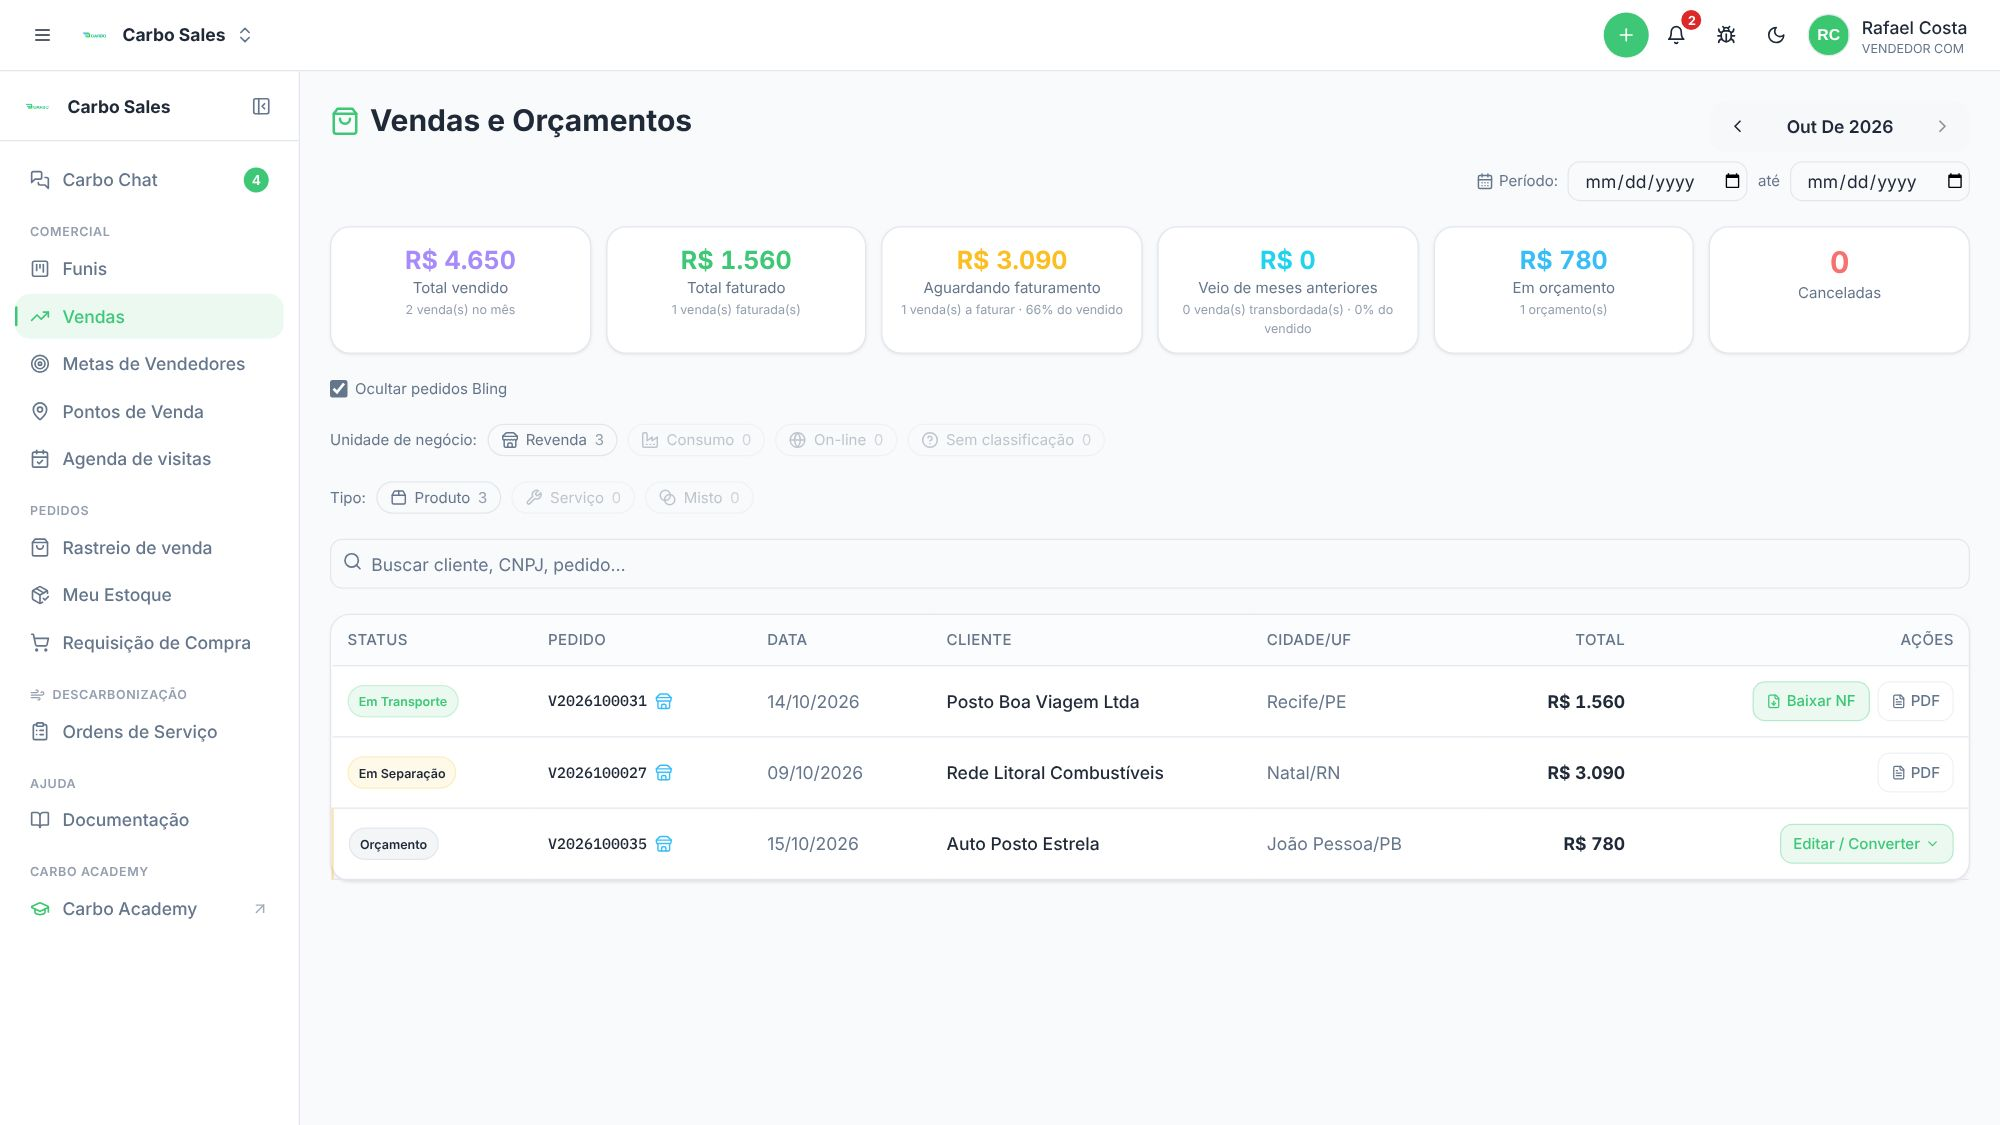
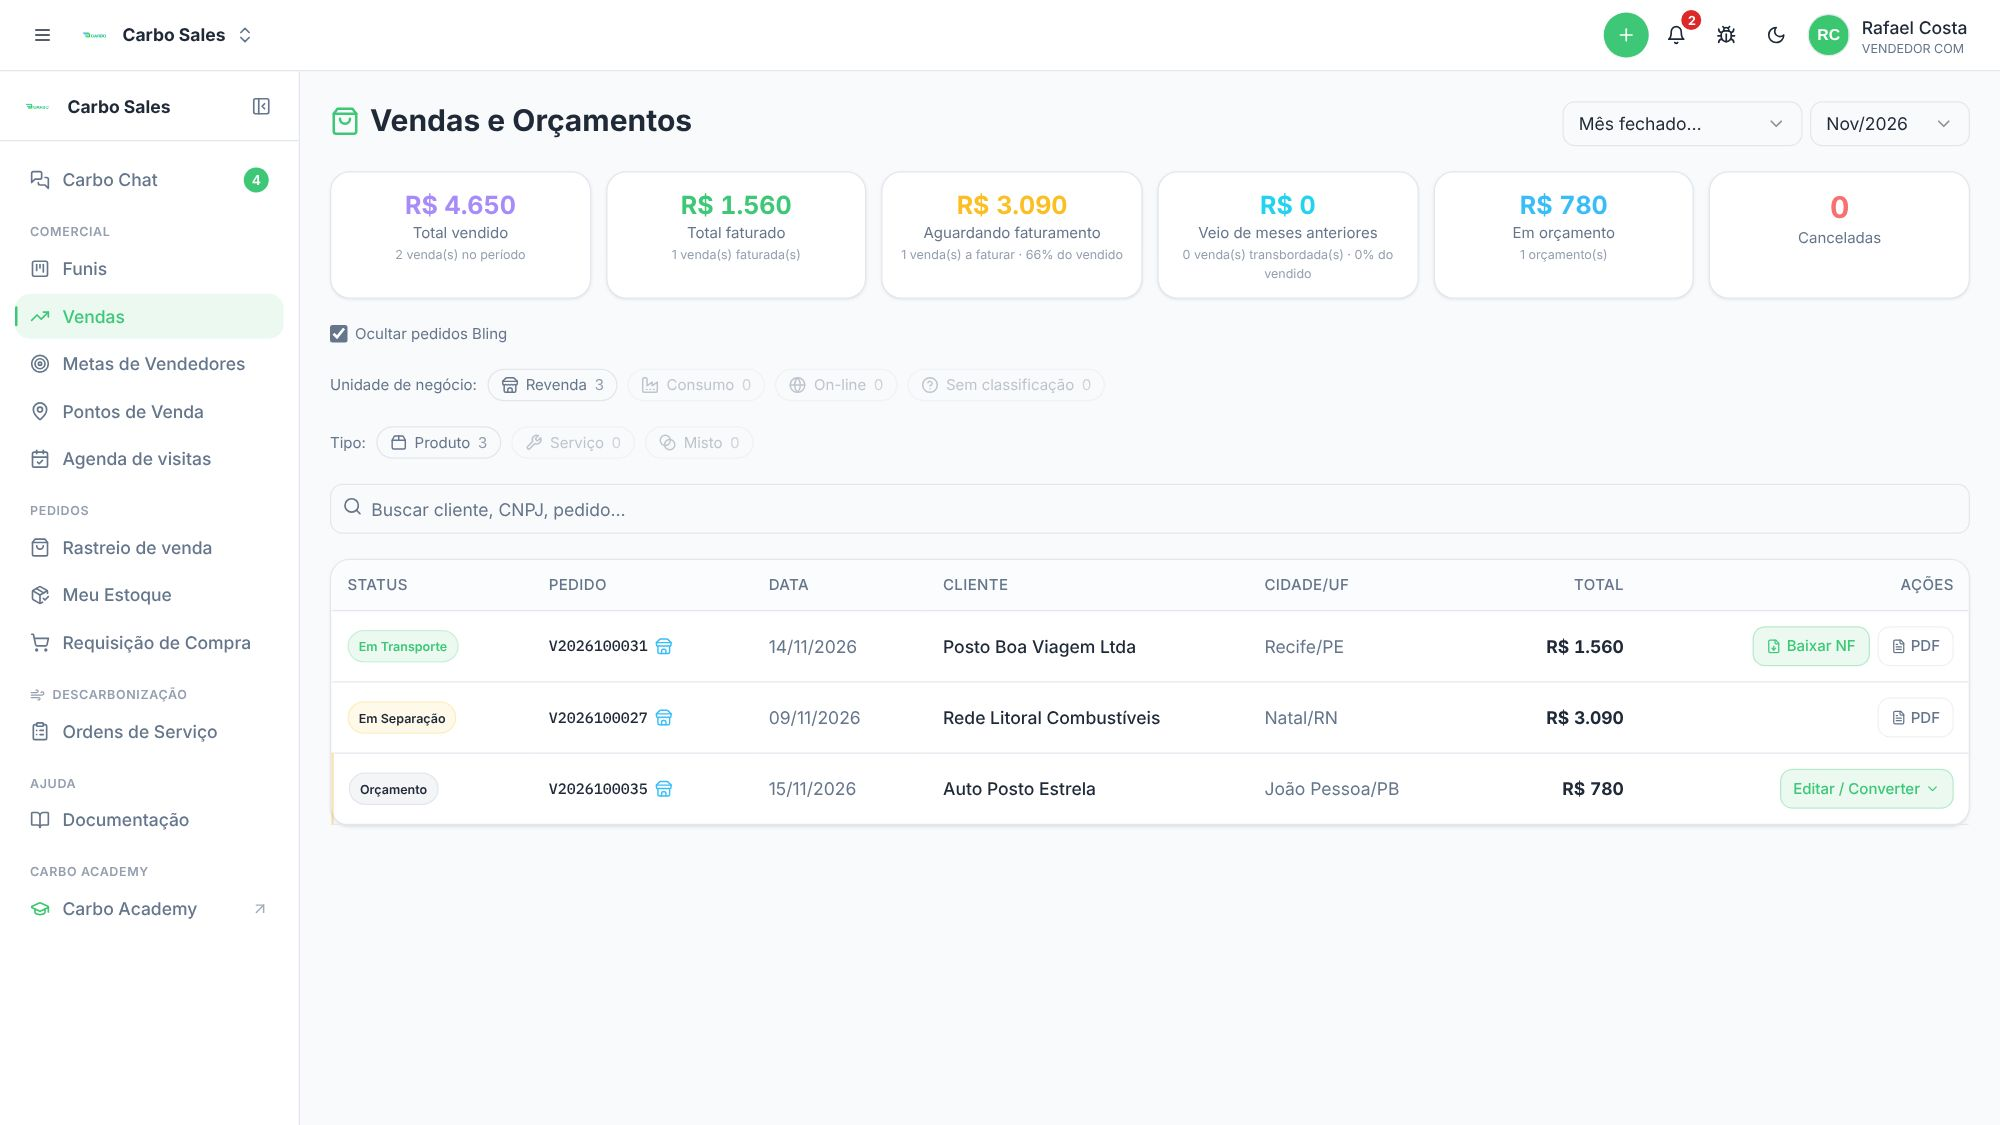
Documentação: seletor de período novo nas telas que mudaram, com prints refeitos
Anúncios da Meta, Mapa da Conquista, painéis de Lojas e Licenciados, Esteira
(admin, atendimento, mkt), /vendas do Sales e do Pré-Vendas, Resultados,
Suprimentos (Ops), Acompanhamento e Ranking do TI.

Claude-Session: https://claude.ai/code/session_014dECjKfnWPqtYYc6bX6aZY

diff --git a/apps/admin/src/docs/marcadores.ts b/apps/admin/src/docs/marcadores.ts
@@ -4,21 +4,21 @@ import type { Caixa } from "./tipos";
 // Não edite à mão: refaça o print e gere de novo. Caixas em % da imagem.
 export const MARCADORES: Record<string, Record<number, Caixa>> = {
   "anuncios": {
-    1: { x: 41.58, y: 1.75, w: 15.47, h: 1.53 },
-    2: { x: 57.7, y: 1.75, w: 13.84, h: 1.53 },
-    3: { x: 72.2, y: 1.75, w: 9.08, h: 1.53 },
-    4: { x: 81.93, y: 1.75, w: 14.98, h: 1.53 },
-    5: { x: 3.09, y: 4.2, w: 93.81, h: 6.41 },
-    6: { x: 34.69, y: 4.2, w: 14.82, h: 6.41 },
-    7: { x: 3.09, y: 11.52, w: 93.81, h: 7.43 },
-    8: { x: 41.42, y: 13.7, w: 17.17, h: 3.23 },
-    9: { x: 3.09, y: 19.87, w: 93.81, h: 14.42 },
-    10: { x: 3.09, y: 35.2, w: 93.81, h: 12.13 },
-    11: { x: 3.09, y: 48.25, w: 46.42, h: 15.41 },
-    12: { x: 50.49, y: 48.25, w: 46.42, h: 15.41 },
-    13: { x: 3.09, y: 64.58, w: 93.81, h: 19.09 },
-    14: { x: 3.09, y: 84.59, w: 93.81, h: 11.44 },
-    15: { x: 1.14, y: 0.53, w: 97.72, h: 98.93 },
+    1: { x: 39.79, y: 1.77, w: 15.47, h: 1.54 },
+    2: { x: 55.91, y: 1.84, w: 15.64, h: 1.38 },
+    3: { x: 72.2, y: 1.77, w: 9.08, h: 1.54 },
+    4: { x: 81.93, y: 1.77, w: 14.98, h: 1.54 },
+    5: { x: 3.09, y: 4.22, w: 93.81, h: 5.83 },
+    6: { x: 34.69, y: 4.22, w: 14.82, h: 5.83 },
+    7: { x: 3.09, y: 10.98, w: 93.81, h: 7.48 },
+    8: { x: 41.42, y: 13.17, w: 17.17, h: 3.25 },
+    9: { x: 3.09, y: 19.37, w: 93.81, h: 14.51 },
+    10: { x: 3.09, y: 34.8, w: 93.81, h: 12.21 },
+    11: { x: 3.09, y: 47.93, w: 46.42, h: 15.51 },
+    12: { x: 50.49, y: 47.93, w: 46.42, h: 15.51 },
+    13: { x: 3.09, y: 64.36, w: 93.81, h: 19.21 },
+    14: { x: 3.09, y: 84.49, w: 93.81, h: 11.52 },
+    15: { x: 1.14, y: 0.54, w: 97.72, h: 98.93 },
   },
   "anuncios-campanhas": {
     1: { x: 2.29, y: 22.76, w: 23.06, h: 4.07 },
@@ -153,9 +153,9 @@ export const MARCADORES: Record<string, Record<number, Caixa>> = {
     3: { x: 51.7, y: 8.5, w: 47.05, h: 3.2 },
     4: { x: 13.75, y: 18.9, w: 16.67, h: 3.6 },
     5: { x: 30.83, y: 18.9, w: 9.17, h: 3.6 },
-    6: { x: 40.42, y: 18.9, w: 7.5, h: 3.6 },
-    7: { x: 48.33, y: 18.9, w: 10, h: 3.6 },
-    8: { x: 58.75, y: 18.9, w: 14.73, h: 3.6 },
+    6: { x: 40.42, y: 18.9, w: 10, h: 3.6 },
+    7: { x: 50.83, y: 18.9, w: 10, h: 3.6 },
+    8: { x: 61.25, y: 18.9, w: 14.73, h: 3.6 },
     9: { x: 13.75, y: 24.1, w: 13.65, h: 30.5 },
     10: { x: 28.02, y: 24.1, w: 13.65, h: 28.15 },
     11: { x: 42.29, y: 24.1, w: 13.65, h: 34.75 },
@@ -275,12 +275,12 @@ export const MARCADORES: Record<string, Record<number, Caixa>> = {
     5: { x: 83, y: 14.33, w: 15.33, h: 10.94 },
     6: { x: 18.33, y: 27.06, w: 80, h: 4 },
     7: { x: 55.9, y: 27.06, w: 8.03, h: 4 },
-    8: { x: 64.49, y: 27.28, w: 12.22, h: 3.56 },
+    8: { x: 64.49, y: 27.06, w: 13.33, h: 4 },
     9: { x: 79.88, y: 27.17, w: 18.45, h: 3.78 },
     10: { x: 18.4, y: 32.94, w: 59.58, h: 50.94 },
     11: { x: 19.24, y: 76.56, w: 11.73, h: 6 },
-    12: { x: 79.17, y: 32.83, w: 19.17, h: 21.78 },
-    13: { x: 79.17, y: 56.39, w: 19.17, h: 40.67 },
+    12: { x: 79.17, y: 32.83, w: 19.17, h: 9.33 },
+    13: { x: 79.17, y: 43.94, w: 19.17, h: 40.67 },
   },
   "mapa-nao-localizadas": {
     1: { x: 2.63, y: 23.48, w: 94.75, h: 15.15 },
@@ -372,13 +372,13 @@ export const MARCADORES: Record<string, Record<number, Caixa>> = {
     3: { x: 3.86, y: 47.41, w: 92.2, h: 19.59 },
   },
   "painel-licenciados": {
-    1: { x: 72.65, y: 6.13, w: 24.02, h: 2.27 },
+    1: { x: 83.33, y: 6.07, w: 13.33, h: 2.4 },
     2: { x: 20, y: 17.27, w: 76.67, h: 23.87 },
     3: { x: 39.38, y: 10.2, w: 18.54, h: 5.47 },
     4: { x: 58.75, y: 10.2, w: 18.54, h: 5.47 },
     5: { x: 78.13, y: 10.2, w: 18.54, h: 5.47 },
     6: { x: 76.83, y: 18.6, w: 10.7, h: 2.13 },
-    7: { x: 72.65, y: 6.13, w: 24.02, h: 2.27 },
+    7: { x: 88.09, y: 18.6, w: 7.19, h: 2.13 },
     8: { x: 20, y: 42.73, w: 37.78, h: 21.53 },
     9: { x: 58.89, y: 42.73, w: 37.78, h: 21.53 },
     10: { x: 20, y: 65.87, w: 76.67, h: 33.47 },
@@ -389,7 +389,7 @@ export const MARCADORES: Record<string, Record<number, Caixa>> = {
     3: { x: 90.13, y: 91.96, w: 6.78, h: 4.23 },
   },
   "painel-lojas": {
-    1: { x: 72.65, y: 8.36, w: 24.02, h: 3.09 },
+    1: { x: 83.33, y: 8.27, w: 13.33, h: 3.27 },
     2: { x: 20, y: 13.91, w: 18.54, h: 7.45 },
     3: { x: 39.38, y: 13.91, w: 18.54, h: 7.45 },
     4: { x: 58.75, y: 13.91, w: 18.54, h: 7.45 },

diff --git a/apps/prevendas/src/docs/conteudo.ts b/apps/prevendas/src/docs/conteudo.ts
@@ -386,7 +386,7 @@ export const SECOES: Secao[] = [
       {
         print: { chave: "vendas", legenda: "Vendas e Orçamentos, visão do colaborador." },
         itens: [
-          { n: 1, titulo: "Período", texto: "Hoje, Ontem, Últimos 7 ou 30 dias, Este mês (até hoje), Mês fechado… (escolhe o mês ao lado) ou Por período… (abre as duas datas). Abre no mês corrente inteiro. A data que vale é a do faturamento." },
+          { n: 1, titulo: "Período", texto: "Hoje, Ontem, Últimos 7 ou 30 dias, Este mês (até hoje), Mês fechado… (escolhe o mês ao lado) ou Por período… (abre as duas datas). Abre no mês corrente inteiro (“Mês fechado…” com o mês atual). A data que vale é a do faturamento." },
           { n: 2, titulo: "Números do período", texto: "Total vendido, faturado, aguardando faturamento, vindo de meses anteriores, em orçamento e canceladas. Clique num número para filtrar a tabela por ele; clique de novo para tirar o filtro." },
           { n: 3, titulo: "Buscar", texto: "Procura pelo nome do cliente, cidade, CNPJ/CPF, IE, telefone, CEP, e-mail ou número do pedido, em todo o histórico (ignora o período). Número com 3 dígitos ou mais casa em qualquer parte do documento, telefone, CEP ou IE." },
           { n: 4, titulo: "Status", texto: "Orçamento, Cancelado ou a etapa do pedido (Nova Venda, Em Separação, Em Transporte, Entregue…)." },
@@ -442,7 +442,7 @@ export const SECOES: Secao[] = [
       {
         print: { chave: "resultados", legenda: "Resultados do período, visão do colaborador." },
         itens: [
-          { n: 1, titulo: "Período", texto: "De quando são os repasses: Hoje, Ontem, Últimos 7 ou 30 dias, Este mês (até hoje), Mês fechado… (escolhe o mês ao lado) ou Por período… (abre as duas datas). Abre no mês corrente inteiro." },
+          { n: 1, titulo: "Período", texto: "De quando são os repasses: Hoje, Ontem, Últimos 7 ou 30 dias, Este mês (até hoje), Mês fechado… (escolhe o mês ao lado) ou Por período… (abre as duas datas). Abre no mês corrente inteiro (“Mês fechado…” com o mês atual)." },
           { n: 2, titulo: "Números", texto: "Repassados, fechados, conversão, receita gerada pelos repasses e o tempo médio do repasse até fechar." },
           { n: 3, titulo: "Situação dos repassados", texto: "Quantos fecharam, estão em negociação (e em que etapa), estão na fila sem closer ou foram perdidos." },
           { n: 4, titulo: "Por closer", texto: "Quanto cada closer recebeu, fechou e vendeu." },

diff --git a/apps/prevendas/src/docs/marcadores.ts b/apps/prevendas/src/docs/marcadores.ts
@@ -125,7 +125,7 @@ export const MARCADORES: Record<string, Record<number, Caixa>> = {
     3: { x: 60.62, y: 73.67, w: 18.75, h: 20.44 },
   },
   "resultados": {
-    1: { x: 82.78, y: 6.95, w: 15.56, h: 3.22 },
+    1: { x: 75.69, y: 7.03, w: 22.64, h: 3.05 },
     2: { x: 18.33, y: 12.29, w: 80, h: 14.92 },
     3: { x: 18.33, y: 29.24, w: 80, h: 25.97 },
     4: { x: 18.33, y: 56.57, w: 80, h: 14.66 },
@@ -133,20 +133,19 @@ export const MARCADORES: Record<string, Record<number, Caixa>> = {
     6: { x: 18.33, y: 86.4, w: 80, h: 13.6 },
   },
   "resultados-gestor": {
-    1: { x: 68.33, y: 5.19, w: 13.89, h: 2.25 },
+    1: { x: 61.25, y: 5.19, w: 13.89, h: 2.25 },
     2: { x: 18.33, y: 55.91, w: 80, h: 11.31 },
-    3: { x: 50.74, y: 81.53, w: 11.56, h: 2.53 },
+    3: { x: 50.12, y: 81.53, w: 11.71, h: 2.53 },
   },
   "vendas": {
-    1: { x: 85.5, y: 9, w: 13, h: 4.44 },
-    2: { x: 73.82, y: 14.33, w: 24.68, h: 3.56 },
-    3: { x: 16.5, y: 20.11, w: 82, h: 11.33 },
-    4: { x: 16.5, y: 35.89, w: 82, h: 4.44 },
-    5: { x: 16.63, y: 42.67, w: 8.34, h: 4.5 },
-    6: { x: 63.13, y: 42.67, w: 7.96, h: 4.5 },
-    7: { x: 88.97, y: 61.22, w: 8.71, h: 3.56 },
-    8: { x: 87.65, y: 48.56, w: 5.83, h: 3.56 },
-    9: { x: 16.63, y: 53.5, w: 81.81, h: 6.33 },
+    1: { x: 78.13, y: 9, w: 20.38, h: 4 },
+    2: { x: 16.5, y: 15.22, w: 82, h: 11.33 },
+    3: { x: 16.5, y: 31, w: 82, h: 4.44 },
+    4: { x: 16.63, y: 37.78, w: 8.36, h: 4.5 },
+    5: { x: 63.03, y: 37.78, w: 7.99, h: 4.5 },
+    6: { x: 88.97, y: 56.33, w: 8.71, h: 3.56 },
+    7: { x: 87.65, y: 43.67, w: 5.83, h: 3.56 },
+    8: { x: 16.63, y: 48.61, w: 81.81, h: 6.33 },
   },
   "vendas-detalhe": {
     1: { x: 2.84, y: 19.32, w: 94.32, h: 11.92 },
@@ -155,8 +154,8 @@ export const MARCADORES: Record<string, Record<number, Caixa>> = {
     4: { x: 2.84, y: 53.31, w: 94.32, h: 3.53 },
   },
   "vendas-gestor": {
-    1: { x: 84.75, y: 32.3, w: 13.75, h: 4 },
-    2: { x: 17.41, y: 39.5, w: 1, h: 1.6 },
+    1: { x: 84.75, y: 27.9, w: 13.75, h: 4 },
+    2: { x: 17.41, y: 35.1, w: 1, h: 1.6 },
     3: { x: 33.4, y: 91.8, w: 33.19, h: 5.8 },
   },
   "vendas-gestor-detalhe": {

diff --git a/apps/crm/src/docs/marcadores.ts b/apps/crm/src/docs/marcadores.ts
@@ -309,15 +309,14 @@ export const MARCADORES: Record<string, Record<number, Caixa>> = {
     3: { x: 47.31, y: 40.06, w: 13.25, h: 12.61 },
   },
   "vendas": {
-    1: { x: 85.5, y: 9, w: 13, h: 4.44 },
-    2: { x: 73.82, y: 14.33, w: 24.68, h: 3.56 },
-    3: { x: 16.5, y: 20.11, w: 82, h: 11.33 },
-    4: { x: 16.5, y: 47.89, w: 82, h: 4.44 },
-    5: { x: 16.63, y: 54.67, w: 10.03, h: 4.5 },
-    6: { x: 16.5, y: 9, w: 82, h: 69.33 },
-    7: { x: 88.97, y: 73.22, w: 8.71, h: 3.56 },
-    8: { x: 87.65, y: 60.56, w: 5.83, h: 3.56 },
-    9: { x: 16.63, y: 65.5, w: 81.81, h: 6.33 },
+    1: { x: 78.13, y: 9, w: 20.38, h: 4 },
+    2: { x: 16.5, y: 15.22, w: 82, h: 11.33 },
+    3: { x: 16.5, y: 43, w: 82, h: 4.44 },
+    4: { x: 16.63, y: 49.78, w: 10.06, h: 4.5 },
+    5: { x: 16.5, y: 9, w: 82, h: 64.44 },
+    6: { x: 88.97, y: 68.33, w: 8.71, h: 3.56 },
+    7: { x: 87.65, y: 55.67, w: 5.83, h: 3.56 },
+    8: { x: 16.63, y: 60.61, w: 81.81, h: 6.33 },
   },
   "vendas-detalhe": {
     1: { x: 2.84, y: 17.16, w: 94.32, h: 10.59 },
@@ -326,11 +325,11 @@ export const MARCADORES: Record<string, Record<number, Caixa>> = {
     4: { x: 2.84, y: 47.35, w: 94.32, h: 3.14 },
   },
   "vendas-gestor": {
-    1: { x: 84.75, y: 43.1, w: 13.75, h: 4 },
-    2: { x: 17.41, y: 50.3, w: 1, h: 1.6 },
+    1: { x: 84.75, y: 38.7, w: 13.75, h: 4 },
+    2: { x: 17.41, y: 45.9, w: 1, h: 1.6 },
     3: { x: 33.4, y: 91.8, w: 33.19, h: 5.8 },
-    4: { x: 66.4, y: 49.1, w: 7.19, h: 4.45 },
-    5: { x: 73.59, y: 49.1, w: 6.75, h: 4.45 },
+    4: { x: 66.38, y: 44.7, w: 7.2, h: 4.45 },
+    5: { x: 73.57, y: 44.7, w: 6.76, h: 4.45 },
   },
   "vendas-gestor-detalhe": {
     1: { x: 2.84, y: 91.87, w: 9.55, h: 5.66 },

diff --git a/apps/ops/src/docs/marcadores.ts b/apps/ops/src/docs/marcadores.ts
@@ -503,19 +503,19 @@ export const MARCADORES: Record<string, Record<number, Caixa>> = {
     4: { x: 89.81, y: 95.52, w: 6.88, h: 1.84 },
   },
   "sup-estoque": {
-    1: { x: 1.19, y: 9.87, w: 97.63, h: 5.08 },
-    2: { x: 86.04, y: 9.87, w: 12.77, h: 5.08 },
-    3: { x: 1.19, y: 17.77, w: 97.63, h: 3.95 },
-    4: { x: 1.19, y: 22.85, w: 97.63, h: 12.13 },
-    5: { x: 1.19, y: 37.8, w: 97.63, h: 5.64 },
-    6: { x: 1.19, y: 45.7, w: 27.12, h: 5.64 },
-    7: { x: 29.32, y: 45.7, w: 14.41, h: 5.64 },
-    8: { x: 44.75, y: 45.98, w: 12.67, h: 5.08 },
-    9: { x: 87.29, y: 45.98, w: 11.52, h: 5.08 },
-    10: { x: 1.19, y: 53.6, w: 97.63, h: 2.26 },
-    11: { x: 1.19, y: 58.67, w: 97.63, h: 5.22 },
-    12: { x: 67.17, y: 65.59, w: 31.64, h: 32.44 },
-    13: { x: 94.66, y: 68.55, w: 2.37, h: 3.95 },
+    1: { x: 1.19, y: 9.55, w: 97.63, h: 4.91 },
+    2: { x: 86.04, y: 9.55, w: 12.77, h: 4.91 },
+    3: { x: 82.54, y: 17.19, w: 16.27, h: 4.91 },
+    4: { x: 1.19, y: 23.19, w: 97.63, h: 13.92 },
+    5: { x: 1.19, y: 39.84, w: 97.63, h: 5.46 },
+    6: { x: 1.19, y: 47.48, w: 27.12, h: 5.46 },
+    7: { x: 29.32, y: 47.48, w: 14.41, h: 5.46 },
+    8: { x: 44.75, y: 47.75, w: 12.67, h: 4.91 },
+    9: { x: 87.29, y: 47.75, w: 11.52, h: 4.91 },
+    10: { x: 1.19, y: 55.12, w: 97.63, h: 2.18 },
+    11: { x: 1.19, y: 60.03, w: 97.63, h: 5.05 },
+    12: { x: 67.17, y: 66.71, w: 31.64, h: 31.38 },
+    13: { x: 94.66, y: 69.58, w: 2.37, h: 3.82 },
   },
   "sup-mapa": {
     1: { x: 1.19, y: 2.06, w: 14.86, h: 5 },

diff --git a/apps/crm/src/docs/secoes/base.ts b/apps/crm/src/docs/secoes/base.ts
@@ -237,7 +237,7 @@ export const SECOES_BASE: Secao[] = [
       {
         print: { chave: "vendas", legenda: "Vendas e Orçamentos, visão do colaborador." },
         itens: [
-          { n: 1, titulo: "Período", texto: "Hoje, Ontem, Últimos 7 ou 30 dias, Este mês (até hoje), Mês fechado… (escolhe o mês ao lado) ou Por período… (abre as duas datas). Abre no mês corrente inteiro. A data que vale é a do faturamento." },
+          { n: 1, titulo: "Período", texto: "Hoje, Ontem, Últimos 7 ou 30 dias, Este mês (até hoje), Mês fechado… (escolhe o mês ao lado) ou Por período… (abre as duas datas). Abre no mês corrente inteiro (“Mês fechado…” com o mês atual). A data que vale é a do faturamento." },
           { n: 2, titulo: "Números do período", texto: "Total vendido, faturado, aguardando faturamento, vindo de meses anteriores, em orçamento e canceladas. Clique num número para filtrar a tabela por ele; clique de novo para tirar o filtro." },
           { n: 3, titulo: "Buscar", texto: "Procura pelo nome do cliente, cidade, CNPJ/CPF, IE, telefone, CEP, e-mail ou número do pedido, em todo o histórico (ignora o período)." },
           { n: 4, titulo: "Status", texto: "Orçamento, Cancelado ou a etapa do pedido (Nova Venda, Em Separação, Em Transporte, Entregue…)." },

diff --git a/apps/ti/src/docs/marcadores.ts b/apps/ti/src/docs/marcadores.ts
@@ -23,7 +23,7 @@ export const MARCADORES: Record<string, Record<number, Caixa>> = {
     4: { x: 86.85, y: 83.5, w: 10.06, h: 6.99 },
   },
   "acompanhamento": {
-    1: { x: 61.92, y: 1.8, w: 6.2, h: 5.39 },
+    1: { x: 58.91, y: 1.8, w: 16.27, h: 5.39 },
     2: { x: 75.86, y: 2.1, w: 13.64, h: 4.79 },
     3: { x: 90.18, y: 1.8, w: 8.63, h: 5.39 },
     4: { x: 1.19, y: 9.89, w: 97.63, h: 15.06 },
@@ -252,12 +252,12 @@ export const MARCADORES: Record<string, Record<number, Caixa>> = {
     2: { x: 44.44, y: 51.44, w: 27.78, h: 28.17 },
   },
   "ranking-ti": {
-    1: { x: 81.74, y: 8.84, w: 10.88, h: 4.5 },
-    2: { x: 93.31, y: 9.16, w: 2.03, h: 3.86 },
-    3: { x: 4.66, y: 38.5, w: 90.68, h: 7.56 },
-    4: { x: 4.66, y: 48.63, w: 90.68, h: 5.87 },
-    5: { x: 4.66, y: 54.5, w: 90.68, h: 9.97 },
-    6: { x: 6.36, y: 88.5, w: 25.27, h: 2.65 },
+    1: { x: 76.36, y: 8.73, w: 16.27, h: 5.71 },
+    2: { x: 93.31, y: 9.68, w: 2.03, h: 3.81 },
+    3: { x: 4.66, y: 39.29, w: 90.68, h: 7.46 },
+    4: { x: 4.66, y: 49.29, w: 90.68, h: 5.79 },
+    5: { x: 4.66, y: 55.08, w: 90.68, h: 9.84 },
+    6: { x: 6.36, y: 88.65, w: 25.27, h: 2.62 },
   },
   "status": {
     1: { x: 0, y: 2.96, w: 98.63, h: 10.07 },

diff --git a/apps/mkt/src/docs/marcadores.ts b/apps/mkt/src/docs/marcadores.ts
@@ -4,8 +4,8 @@ import type { Caixa } from "./tipos";
 // Não edite à mão: refaça o print e gere de novo. Caixas em % da imagem.
 export const MARCADORES: Record<string, Record<number, Caixa>> = {
   "anuncios": {
-    1: { x: 39.2, y: 1.75, w: 16.1, h: 1.53 },
-    2: { x: 55.98, y: 1.75, w: 14.41, h: 1.53 },
+    1: { x: 37.34, y: 1.75, w: 16.1, h: 1.53 },
+    2: { x: 54.12, y: 1.83, w: 16.27, h: 1.37 },
     3: { x: 71.07, y: 1.75, w: 9.45, h: 1.53 },
     4: { x: 81.19, y: 1.75, w: 15.59, h: 1.53 },
     5: { x: 3.22, y: 4.2, w: 93.56, h: 6.41 },
@@ -254,9 +254,9 @@ export const MARCADORES: Record<string, Record<number, Caixa>> = {
     3: { x: 50.45, y: 10.9, w: 47.05, h: 3.2 },
     4: { x: 15, y: 21.3, w: 16.67, h: 3.6 },
     5: { x: 32.08, y: 21.3, w: 9.17, h: 3.6 },
-    6: { x: 41.67, y: 21.3, w: 7.5, h: 3.6 },
-    7: { x: 49.58, y: 21.3, w: 10, h: 3.6 },
-    8: { x: 60, y: 21.3, w: 14.73, h: 3.6 },
+    6: { x: 41.67, y: 21.3, w: 10, h: 3.6 },
+    7: { x: 52.08, y: 21.3, w: 10, h: 3.6 },
+    8: { x: 62.5, y: 21.3, w: 14.73, h: 3.6 },
     9: { x: 15, y: 26.5, w: 13.23, h: 30.5 },
     10: { x: 28.85, y: 26.5, w: 13.23, h: 28.15 },
     11: { x: 42.71, y: 26.5, w: 13.23, h: 34.75 },

diff --git a/apps/atendimento/src/docs/marcadores.ts b/apps/atendimento/src/docs/marcadores.ts
@@ -150,9 +150,9 @@ export const MARCADORES: Record<string, Record<number, Caixa>> = {
     3: { x: 51.7, y: 8.5, w: 47.05, h: 3.2 },
     4: { x: 13.75, y: 18.9, w: 16.67, h: 3.6 },
     5: { x: 30.83, y: 18.9, w: 9.17, h: 3.6 },
-    6: { x: 40.42, y: 18.9, w: 7.5, h: 3.6 },
-    7: { x: 48.33, y: 18.9, w: 10, h: 3.6 },
-    8: { x: 58.75, y: 18.9, w: 14.73, h: 3.6 },
+    6: { x: 40.42, y: 18.9, w: 10, h: 3.6 },
+    7: { x: 50.83, y: 18.9, w: 10, h: 3.6 },
+    8: { x: 61.25, y: 18.9, w: 14.73, h: 3.6 },
     9: { x: 13.75, y: 24.1, w: 13.65, h: 30.5 },
     10: { x: 28.02, y: 24.1, w: 13.65, h: 28.15 },
     11: { x: 42.29, y: 24.1, w: 13.65, h: 34.75 },
